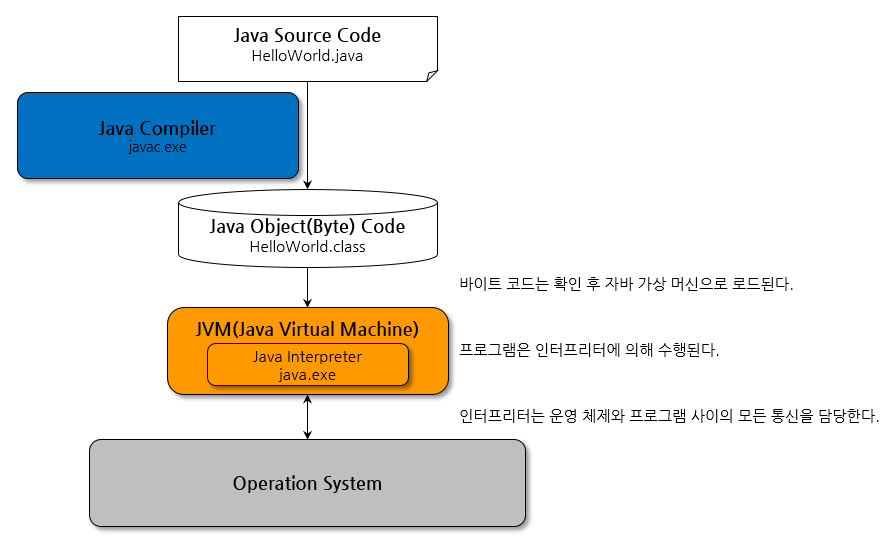
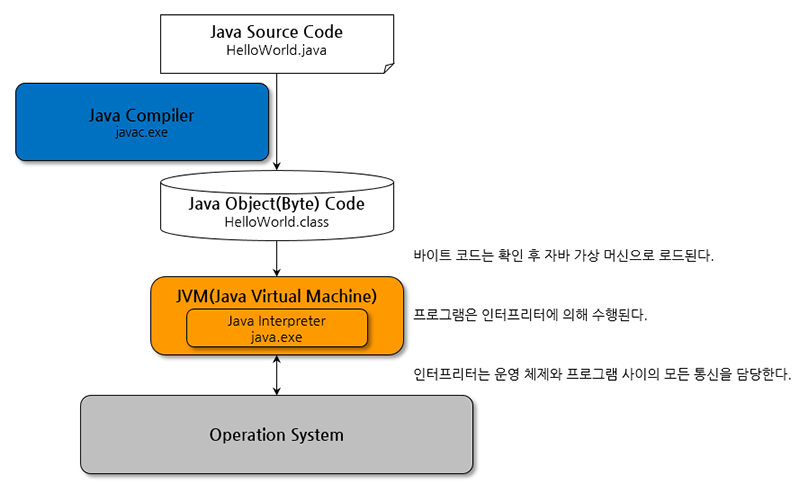
[UPDATE]Image Size

diff --git a/Fundamental/README.md b/Fundamental/README.md
@@ -68,16 +68,15 @@
 	- DA(Data Architect: 데이터 표준, 구조, 마이그레이션 등 설계자-DBA의 상위 개념)
 	- BA(Business Architect: 기술적 관점이 아닌 업무 관점의 프로세스 설계자-실제 고객의 요구에 따라 첫 개발 지표가 되는 부분)
 	- QA(Quality Assurance: 산출물과 소스코드에 대한 품질 담당자)
-<img src="./image/it_org_chart.png" alt="정보기술조직도" width="80%" height="80%" />
+![정보기술 조직도](./image/it_org_chart.png)
 
 
 # 업무 프로세스와 개발 표준 가이드 for 웹 개발자
 ## 업무 프로세스
-<img src="./image/bizProcess.png" alt="표준업무" width="80%" height="80%" />
-
+![표준 업무와 폴더](./image/bizProcess.png)
 
 ## 개발 표준 가이드 for 웹 개발자
-<img src="./image/devStandardGuide.png" alt="개발 표준 가이드" width="80%" height="80%" />
+![개발 표준 가이드](./image/devStandardGuide.png)
 
 
 # 선택과 준비
@@ -92,8 +91,8 @@
 - [권장] 용어, 폰트, 로고 및 양식 등
 - [중요] 1) 목표 프로젝트(헌장)을 분석 및 설계하고 2) 과목과 솔루션을 진행하면서 모듈화하여 3) 구현 및 관리
 - [산출물] 요구 사항, 분석, 설계, 화면(프론트 vs. 백앤드 + 웹 vs. 앱 등)과 기능(화면 vs. 로직 vs. API 등) 그리고 검증
-<img src="./image/projectCharter.png" alt="프로젝트 헌장" width="80%" height="80%" />
-<img src="./image/projectManage.png" alt="프로젝트 관리" width="80%" height="80%" />
+![프로젝트 헌장](./image/projectCharter.png)
+![프로젝트 관리](./image/projectManage.png)
 
 
 # Network와 NOS 그리고 Server와 Client
@@ -163,13 +162,13 @@
 - TCP/IP(Transmission Control Protocol/Internet Protocol) Protocol
 	- 인터넷 표준 Protocol
 	- OSI 7 Layer의 Transport Layer(TCP)와 Network Layer(IP)가 혼합된 형태로 응용 Protocol(HTTP, FTP, …)의 Base Protocol
-<img src="./image/tcpip.png" alt="TCP/IP" width="80%" height="80%" />
+![TCP/IP](./image/tcpip.png)
 - TCP/IP 데이터 전송 과정
-<img src="./image/tcpipFlow.png" alt="TCP/IP Flow" width="80%" height="80%" />
+![TCP/IP Flow](./image/tcpipFlow.png)
 - TCP/IP Handshake(가상 회선의 상태와 의미)
-<img src="./image/tcpipHandshake.png" alt="TCP/IP Handshake" width="80%" height="80%" />
+![TCP/IP Handshake](./image/tcpipHandshake.png)
 - IP(Internet Protocol) Address Class
-<img src="./image/ipclass.png" alt="IP Address" width="80%" height="80%" />
+![IP Class](./image/ipclass.png)
 - Subnet Mask
 - Gateway IP
 - Class 당 예약되어 사용할 수 없는 IP

diff --git a/Language/Java/README.md b/Language/Java/README.md
@@ -72,9 +72,9 @@
 	- Remove pointer, structure, union
 	- All code in class
 - Java Folder
-<img src="./image/jdk.png" alt="JDK" width="80%" height="80%" />
+![JDK](./image/jdk.png)
 - Class library Source: C:\jdk*\src.jar vs. C:\Program Files\Java\jdk*\src.zip
-<img src="./image/jre.png" alt="JRE" width="80%" height="80%" />
+![JRE](./image/jre.png)
 
 ## Compile and run
 - For Beginner: 99%
@@ -84,7 +84,7 @@
 	- Edit > Save > Compile > Run
 - Compile
 	- C:\Examle\javac HelloWorld.java
-<img src="./image/compile.png" alt="compile" width="80%" height="80%" />
+![JDK](./image/compile.png)
 - Run
 	- C:\Example\java HelloWorld
 	- C:\Example\appletviewer ExApplet.html
